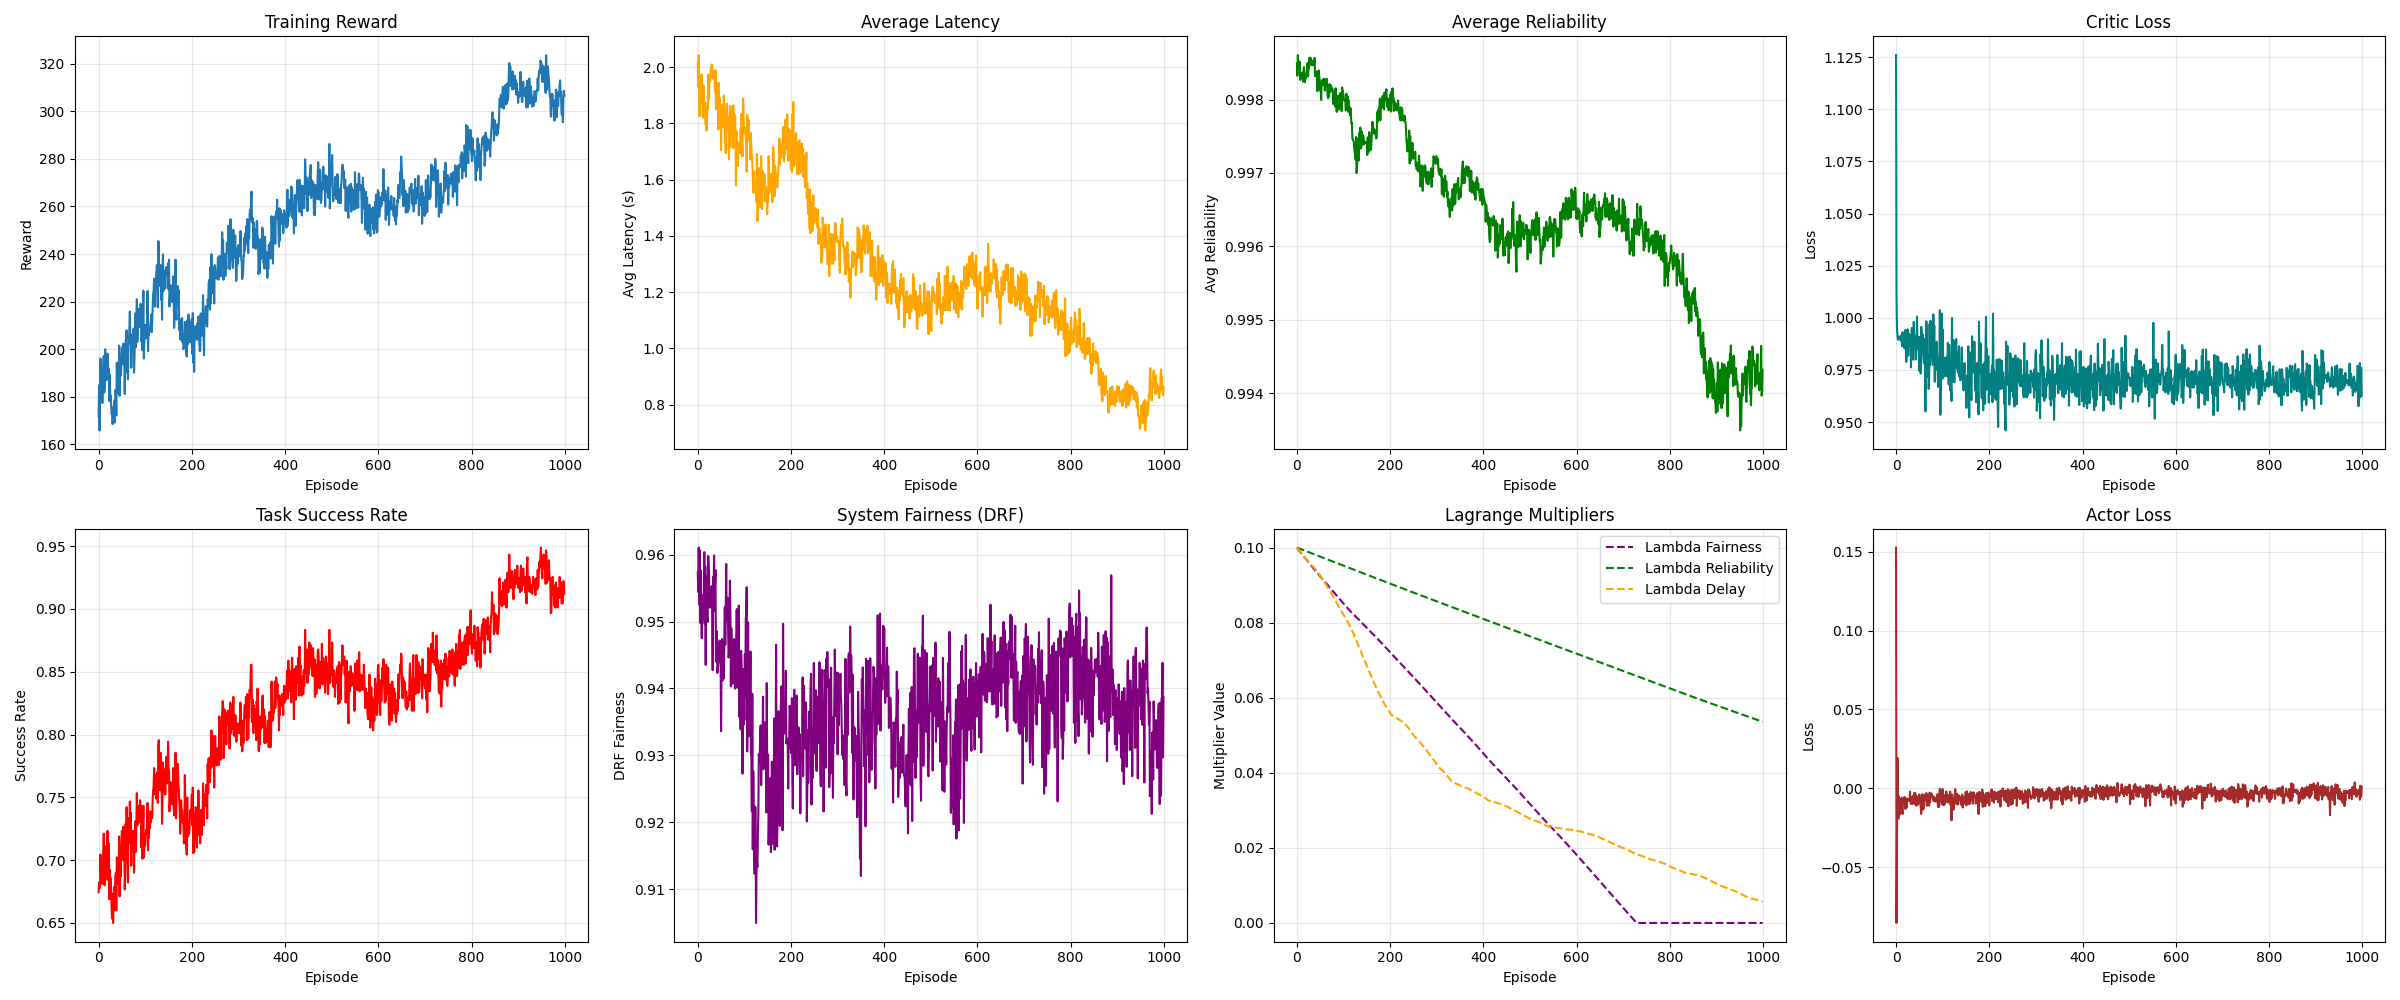
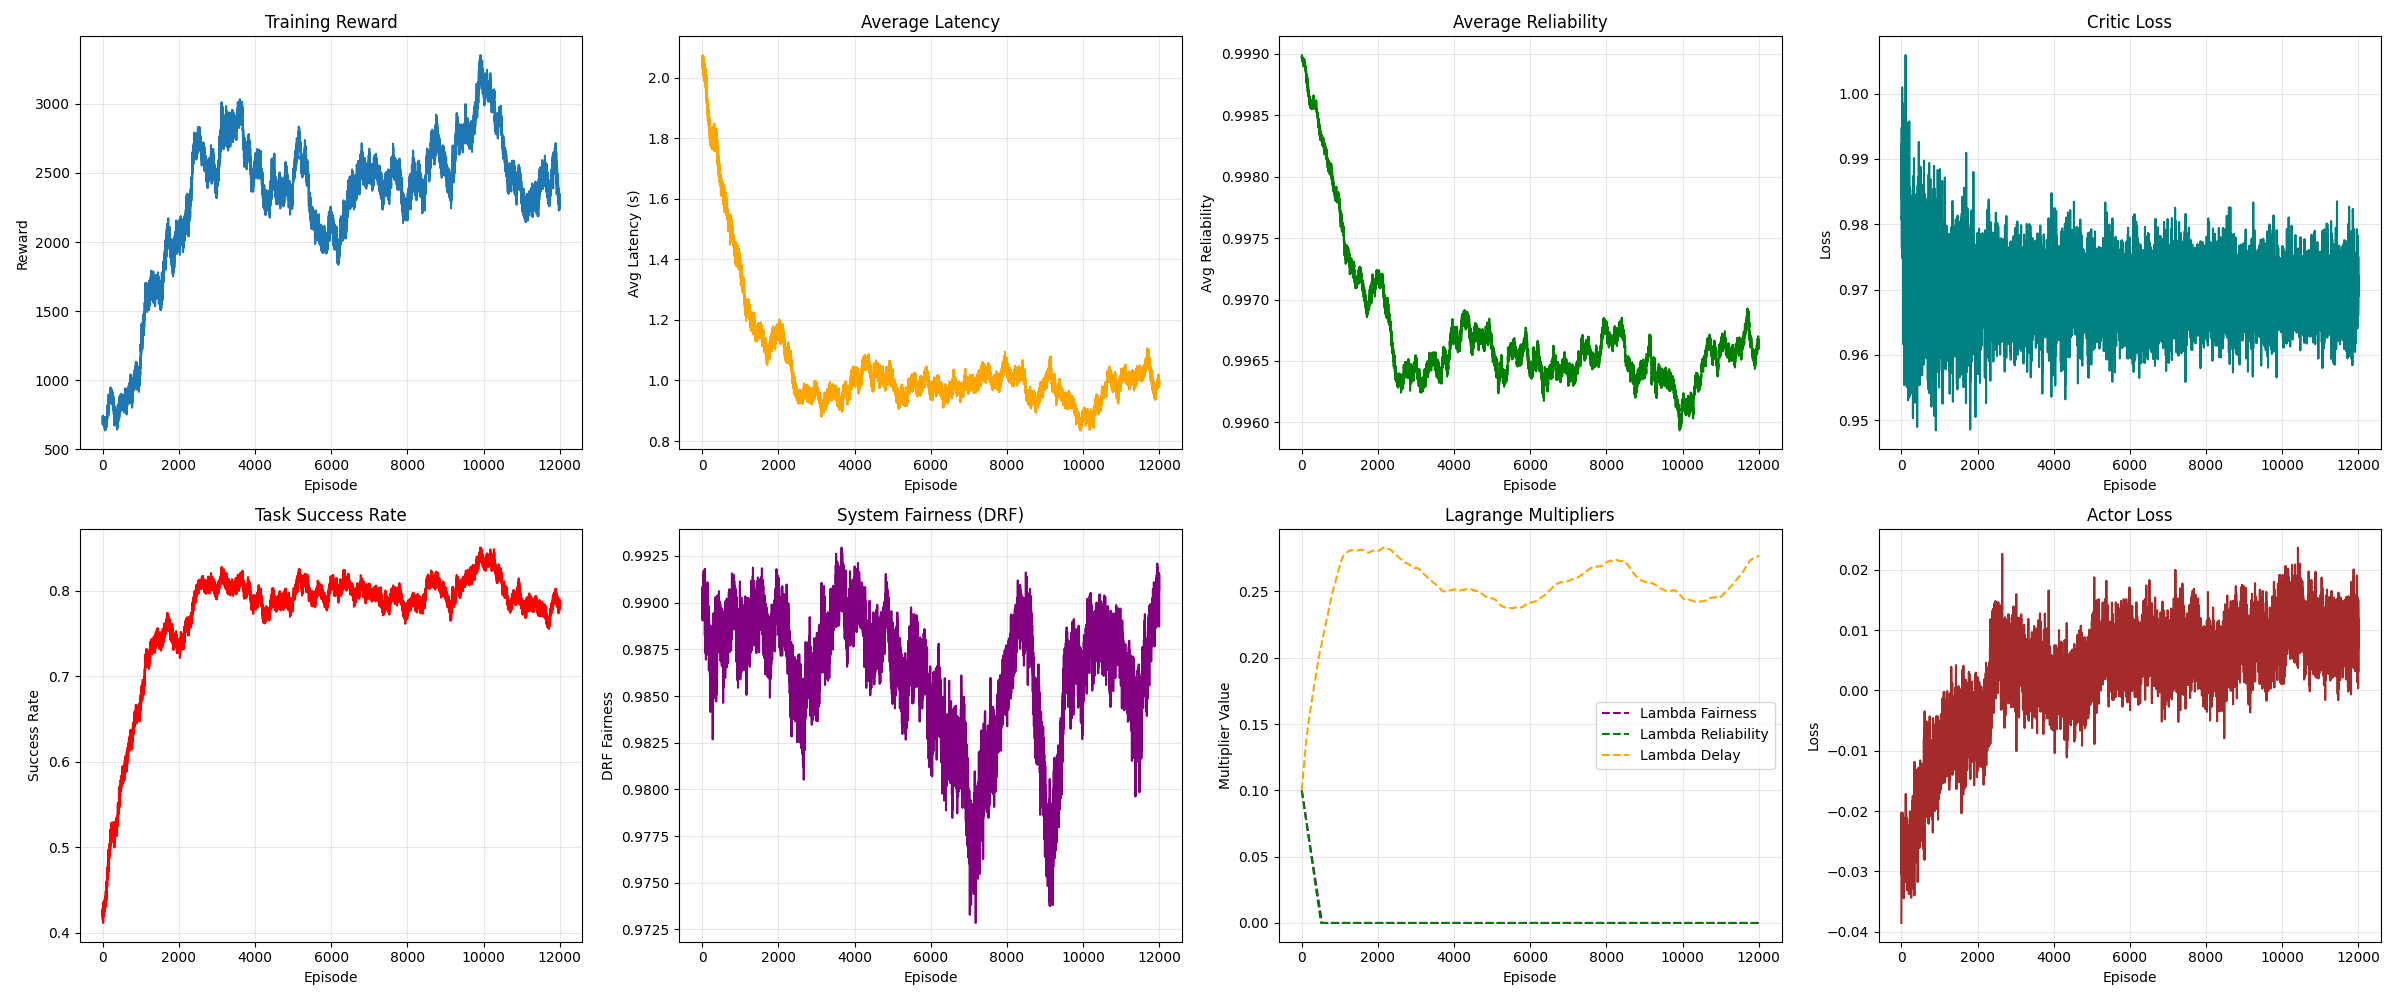
Update MEC system configuration and reward scaling

diff --git a/mec_system/config.py b/mec_system/config.py
@@ -2,10 +2,10 @@ from dataclasses import dataclass
 
 @dataclass
 class SystemConfig:
-    NUM_EDGE_SERVERS: int = 3
-    NUM_DEVICES_PER_SERVER: int = 3  # Reduced to make system stable (9 tasks/sec total)
+    NUM_EDGE_SERVERS: int = 5
+    NUM_DEVICES_PER_SERVER: int = 20  # Reduced to make system stable (9 tasks/sec total)
     NUM_TIME_STEPS: int = 100  # Reduced for faster 1000-episode run
-    TIME_SLOT_DURATION: float = 1 # seconds (Increased to allow queue clearing)
+    TIME_SLOT_DURATION: float = 7 # seconds (Increased to allow queue clearing)
     
     # Resource Capacities (Based on 2024-2025 Research)
     # Local MEC Server: 3-5 GHz per core, 10-20 GHz total (Liu et al. 2025)
@@ -16,7 +16,7 @@ class SystemConfig:
     DEVICE_CPU_CAPACITY: float = 1e9    # 1 GHz
     EDGE_BANDWIDTH_CAPACITY: float = 1e9 # 1 Gbps
     EDGE_STORAGE_CAPACITY: float = 50e9  # 50 GB
-    MAX_QUEUE_SIZE: int = 25  # Reduced to make congestion more apparent
+    MAX_QUEUE_SIZE: int = 20  # Reduced to make congestion more apparent
 
 @dataclass
 class TaskConfig:
@@ -70,7 +70,7 @@ class TrainingConfig:
     # Fairness Threshold: 0.7-0.8 (Jain's Index)
     FAIRNESS_THRESHOLD: float = 0.80
     # Reliability Threshold: 95%-99.9% (URLLC targets 99.999%, general MEC ~99%)
-    RELIABILITY_THRESHOLD: float = 0.95
+    RELIABILITY_THRESHOLD: float = 0.80
     
     # PPO Parameters
     LR_ACTOR: float = 1.5e-4
@@ -83,7 +83,7 @@ class TrainingConfig:
     ENTROPY_COEF: float = 0.001  # Reduced for Beta distribution
     
     # Dual Ascent
-    MAX_LAMBDA: float = 0.5
+    MAX_LAMBDA: float = 5.0
 
 # Global Configuration Instance
 class Config:

diff --git a/mec_system/env/entities.py b/mec_system/env/entities.py
@@ -12,10 +12,20 @@ class Task:
         self.result_size = self.data_size * 0.1 # Assume result is 10% of input size
         self.cpu_cycles_per_bit = np.random.uniform(Config.task.CPU_CYCLES_PER_BIT_MIN, Config.task.CPU_CYCLES_PER_BIT_MAX)
         
-        # Deadline: uniform range 2.0 to 2.5 seconds
-        self.deadline = np.random.uniform(2.0, 2.5)
-            
+        # Calculate total CPU cycles first (needed for deadline calculation)
         self.total_cpu_cycles = self.data_size * self.cpu_cycles_per_bit
+        
+        # Deadline: proportional to task size
+        # Base deadline: 0.5-1.0 seconds for small tasks
+        # Plus additional time based on task complexity (total CPU cycles)
+        # Normalize by typical CPU cycles to get reasonable time values
+        base_deadline = np.random.uniform(0.5, 1.0)
+        # Scale factor: larger tasks get more time
+        # Assuming typical CPU cycles range, this adds 1-3 seconds for large tasks
+        task_complexity_factor = self.total_cpu_cycles / (Config.task.CPU_CYCLES_PER_BIT_MAX * Config.task.DATA_SIZE_MAX)
+        additional_time = task_complexity_factor * np.random.uniform(1.5, 2.5)
+        self.deadline = base_deadline + additional_time
+            
         self.vulnerability = np.random.uniform(Config.reliability.TASK_VULNERABILITY_MIN, Config.reliability.TASK_VULNERABILITY_MAX)
 
 class MobileDevice:

diff --git a/mec_system/main.py b/mec_system/main.py
@@ -20,7 +20,7 @@ def main():
     print(f"  - Action Components per Device: 2 (alpha, mu)")
     print("-" * 50)
         
-    num_episodes = 1000
+    num_episodes = 12000
     
     # Metrics History
     history = {
